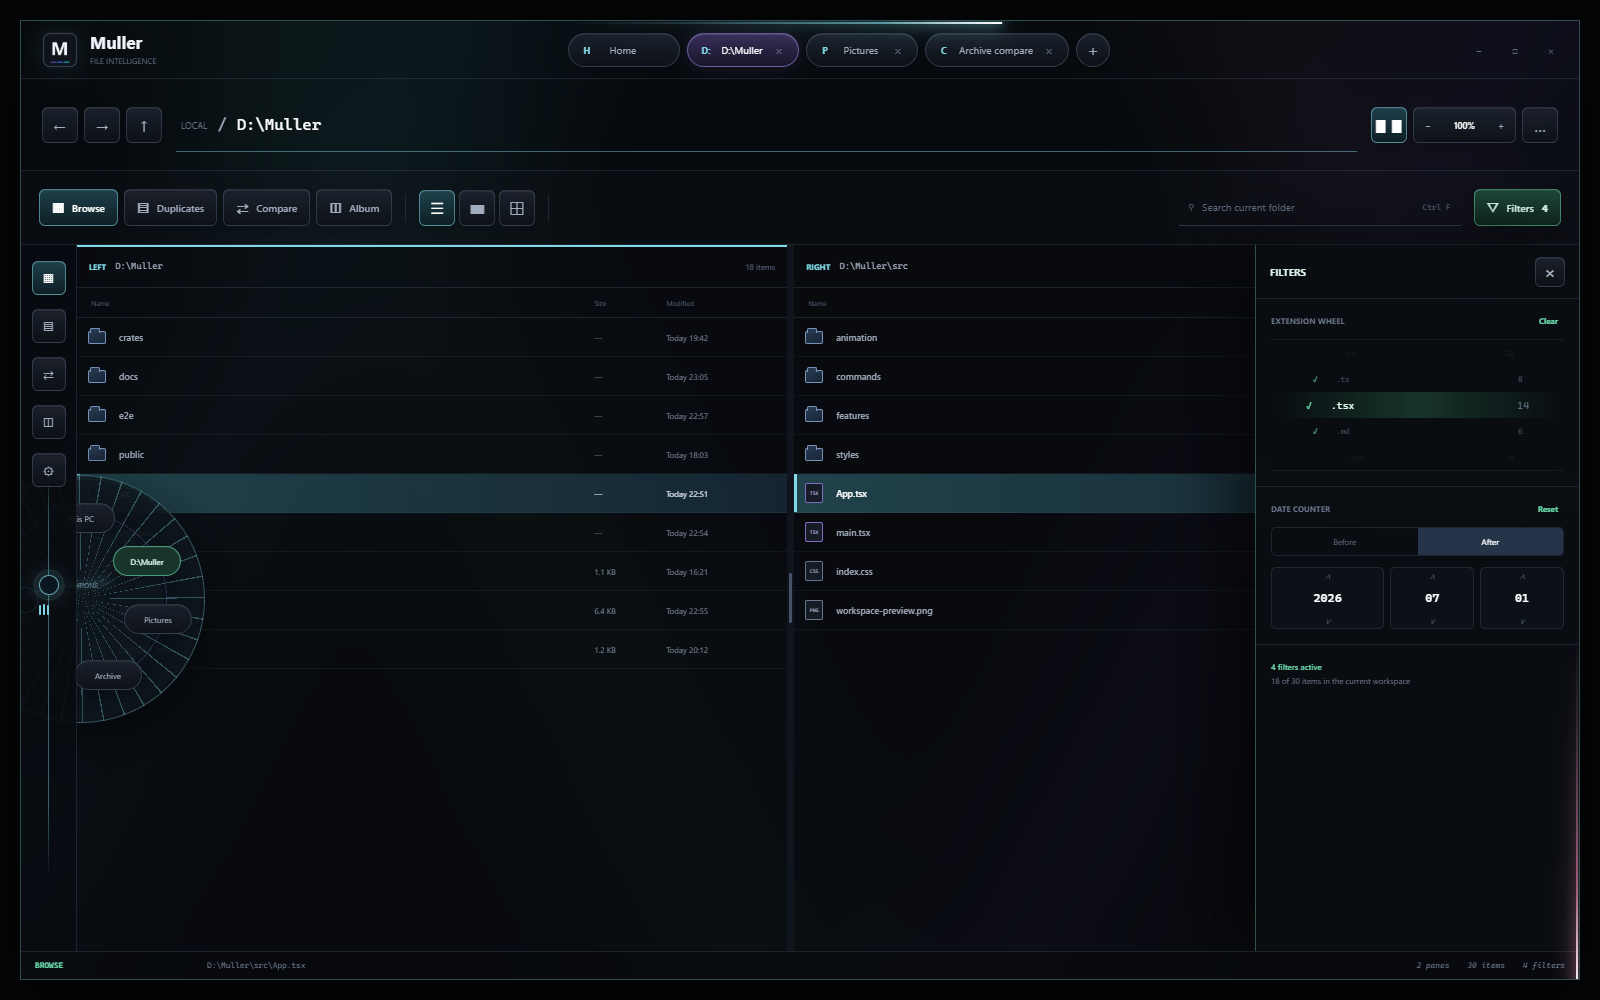
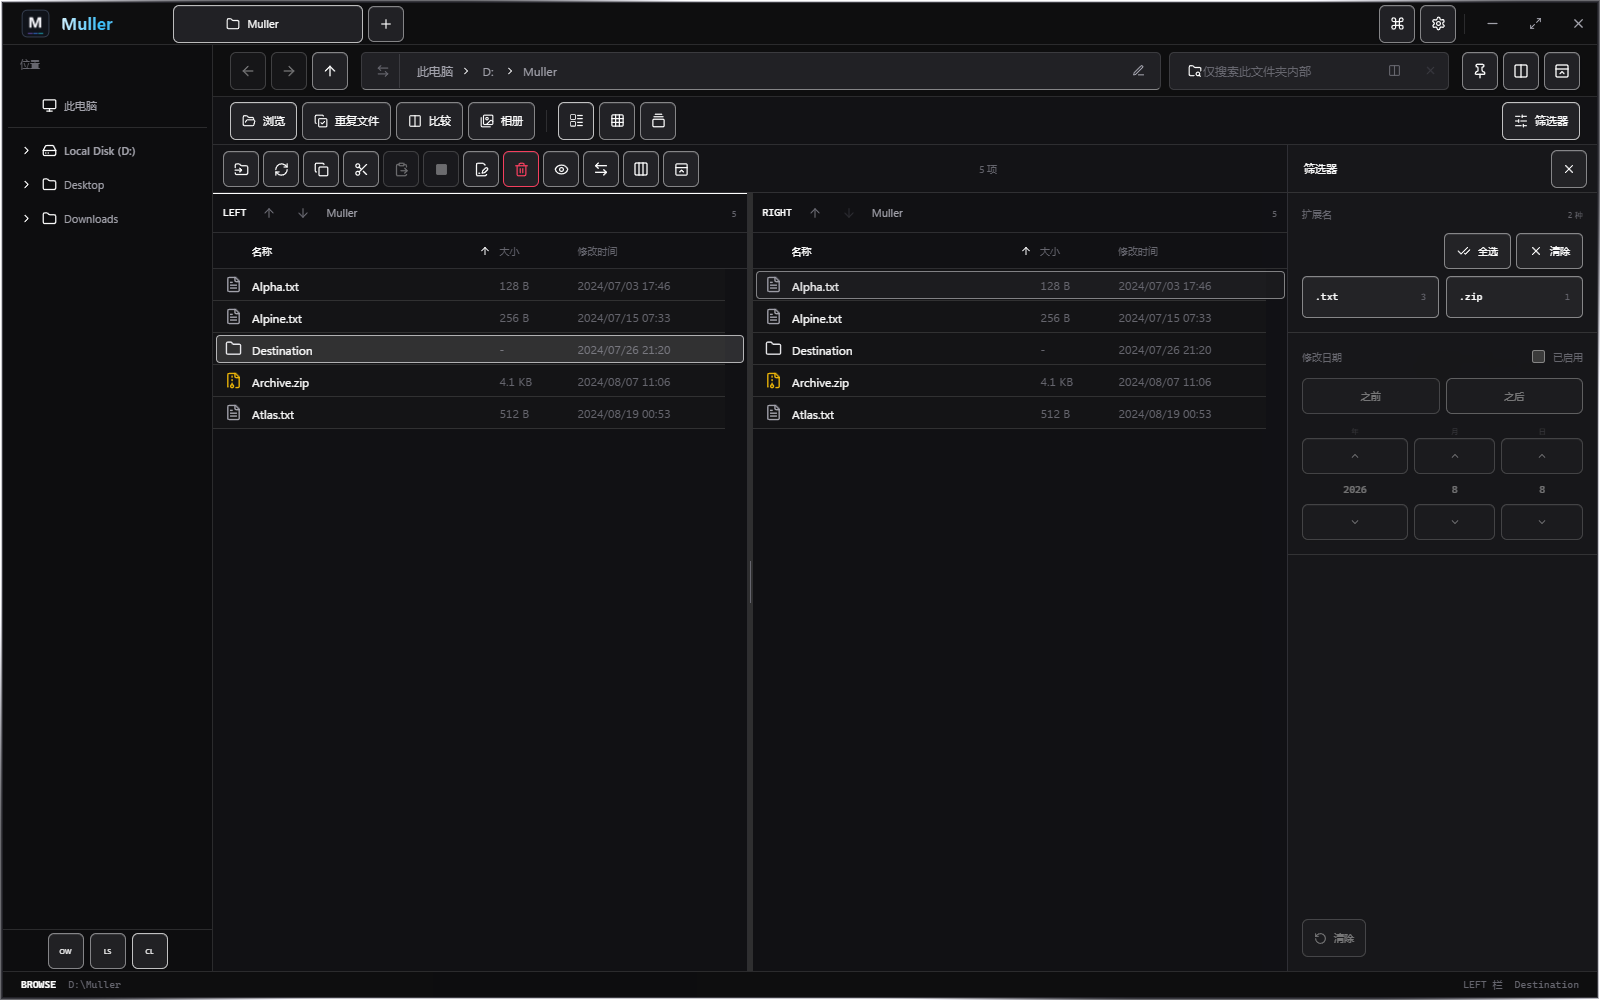
docs: update Platinum workspace image

diff --git a/README.md b/README.md
@@ -18,7 +18,7 @@
   </p>
 </div>
 
-![Muller workspace](docs/assets/muller-workspace.png)
+![Muller Monochrome Platinum workspace](docs/assets/muller-platinum-workspace.png)
 
 ## 为什么是 Muller
 
